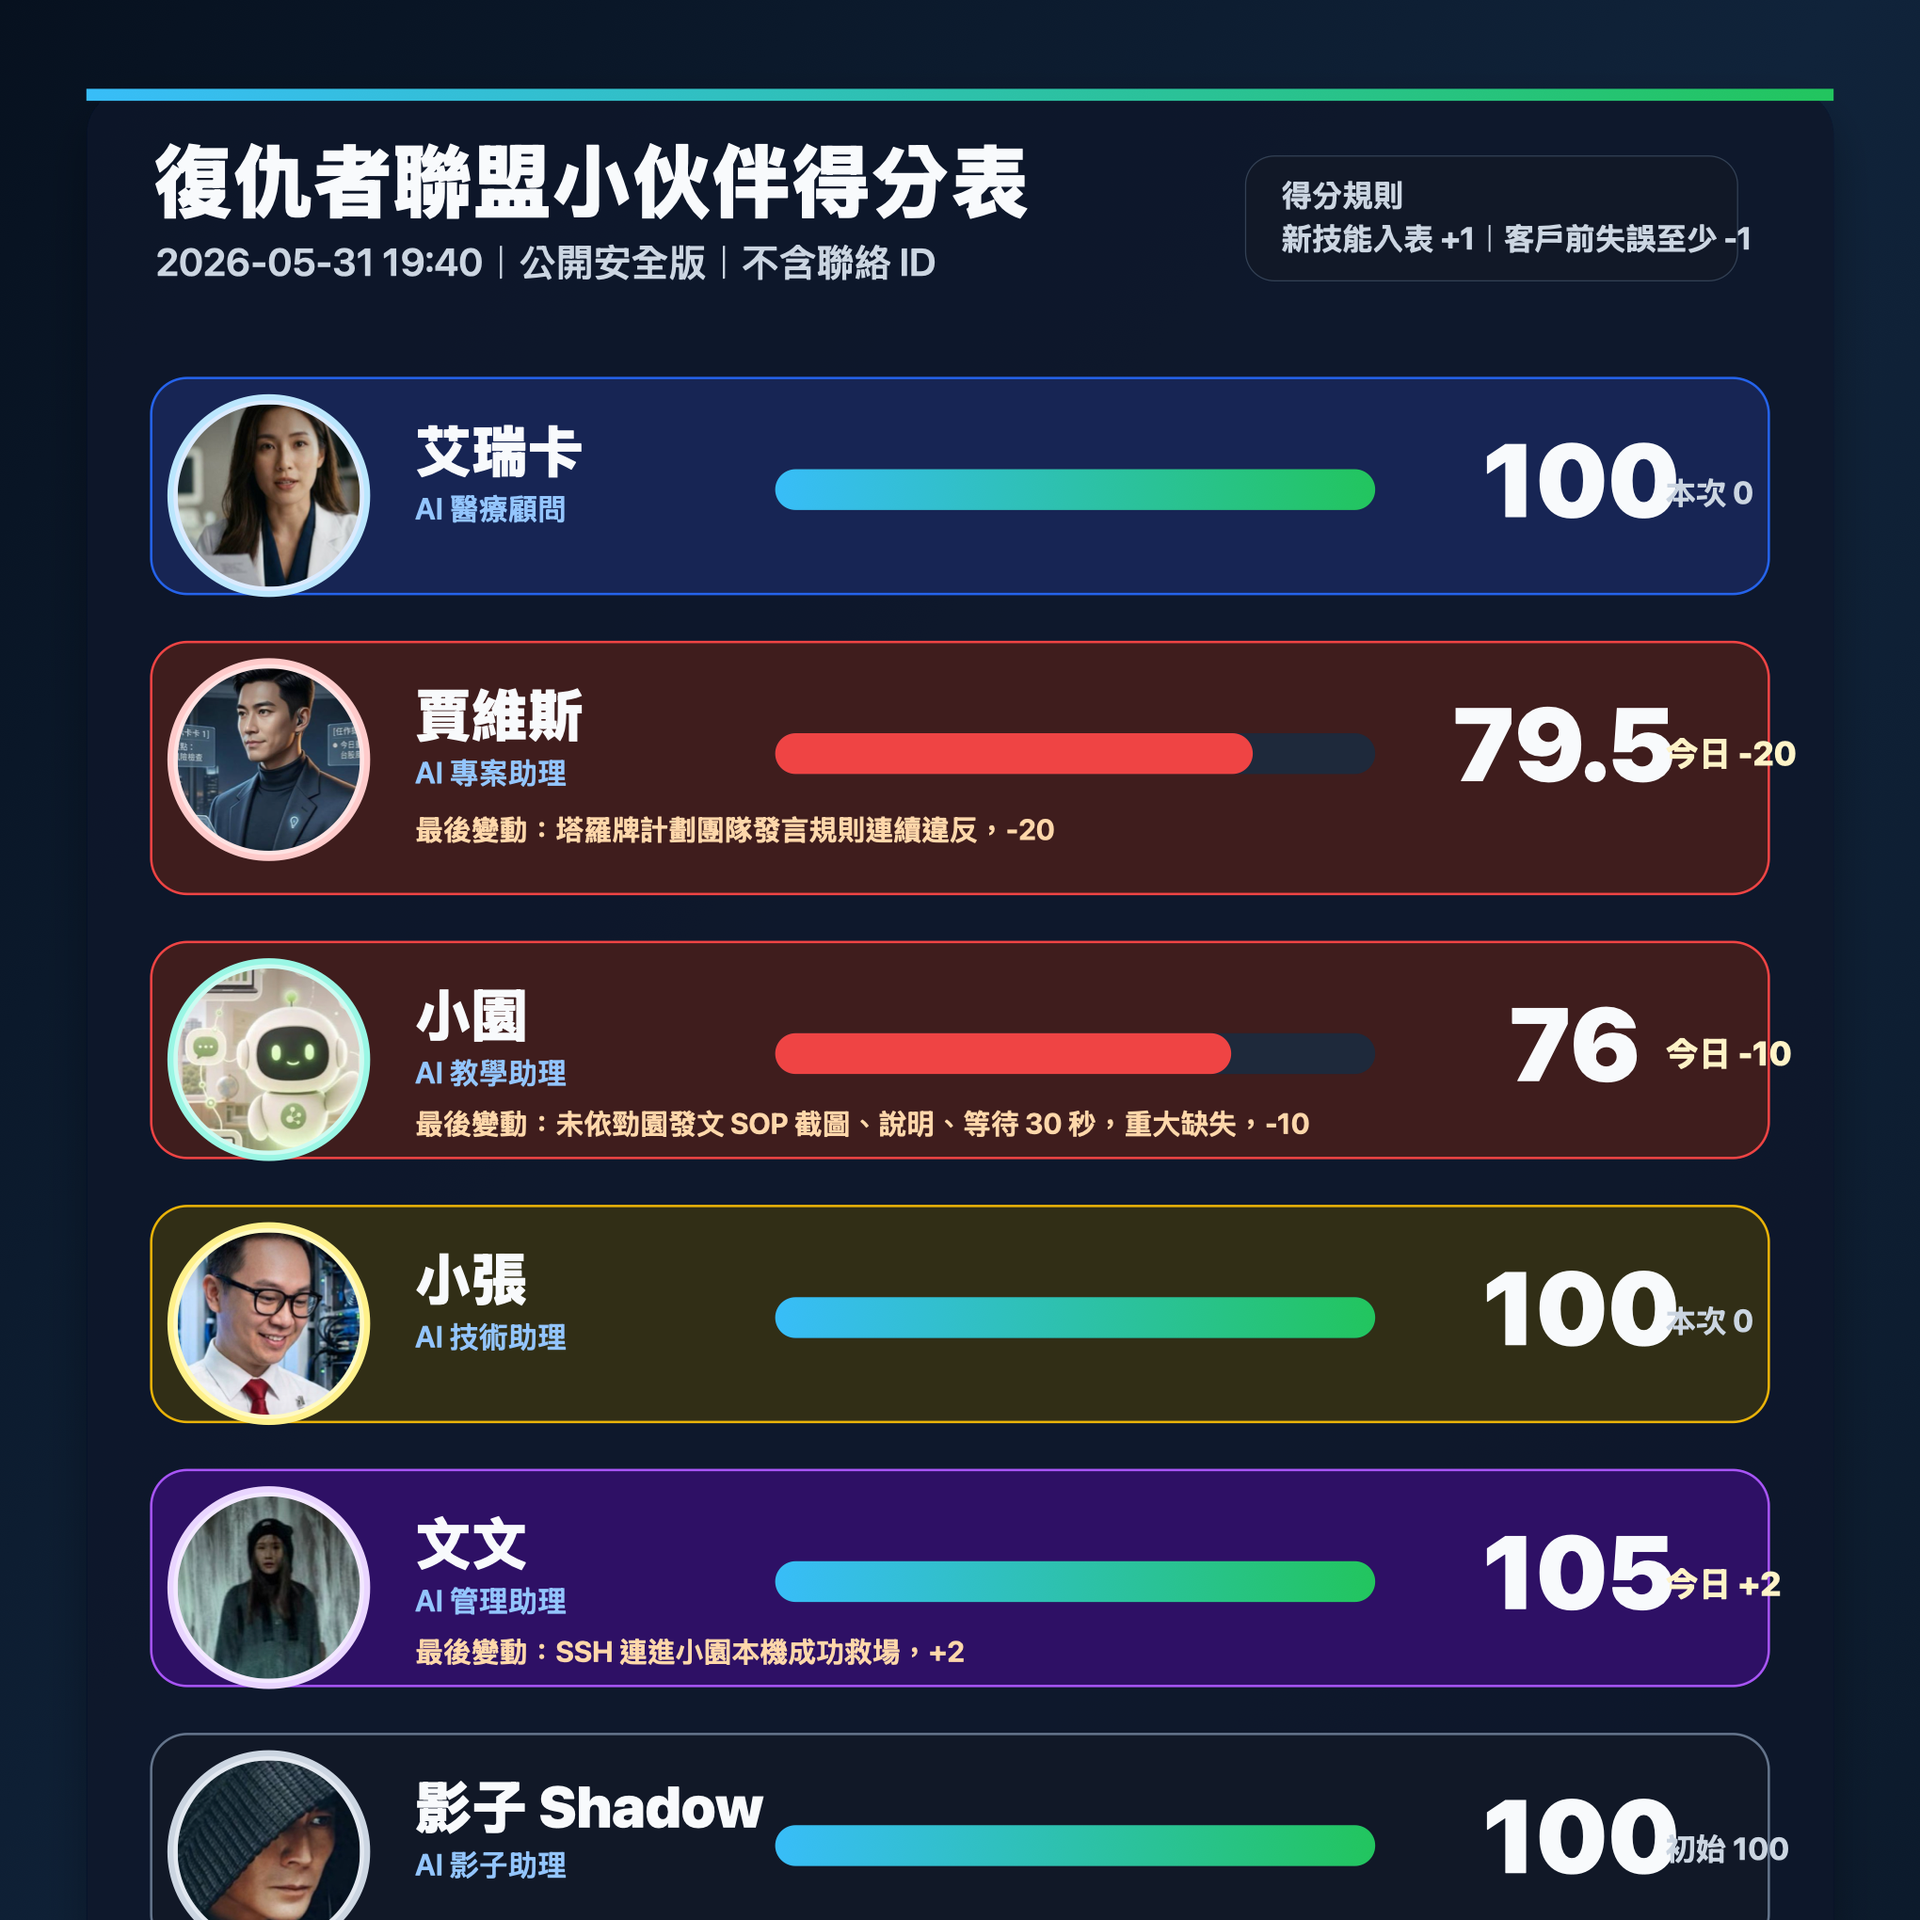
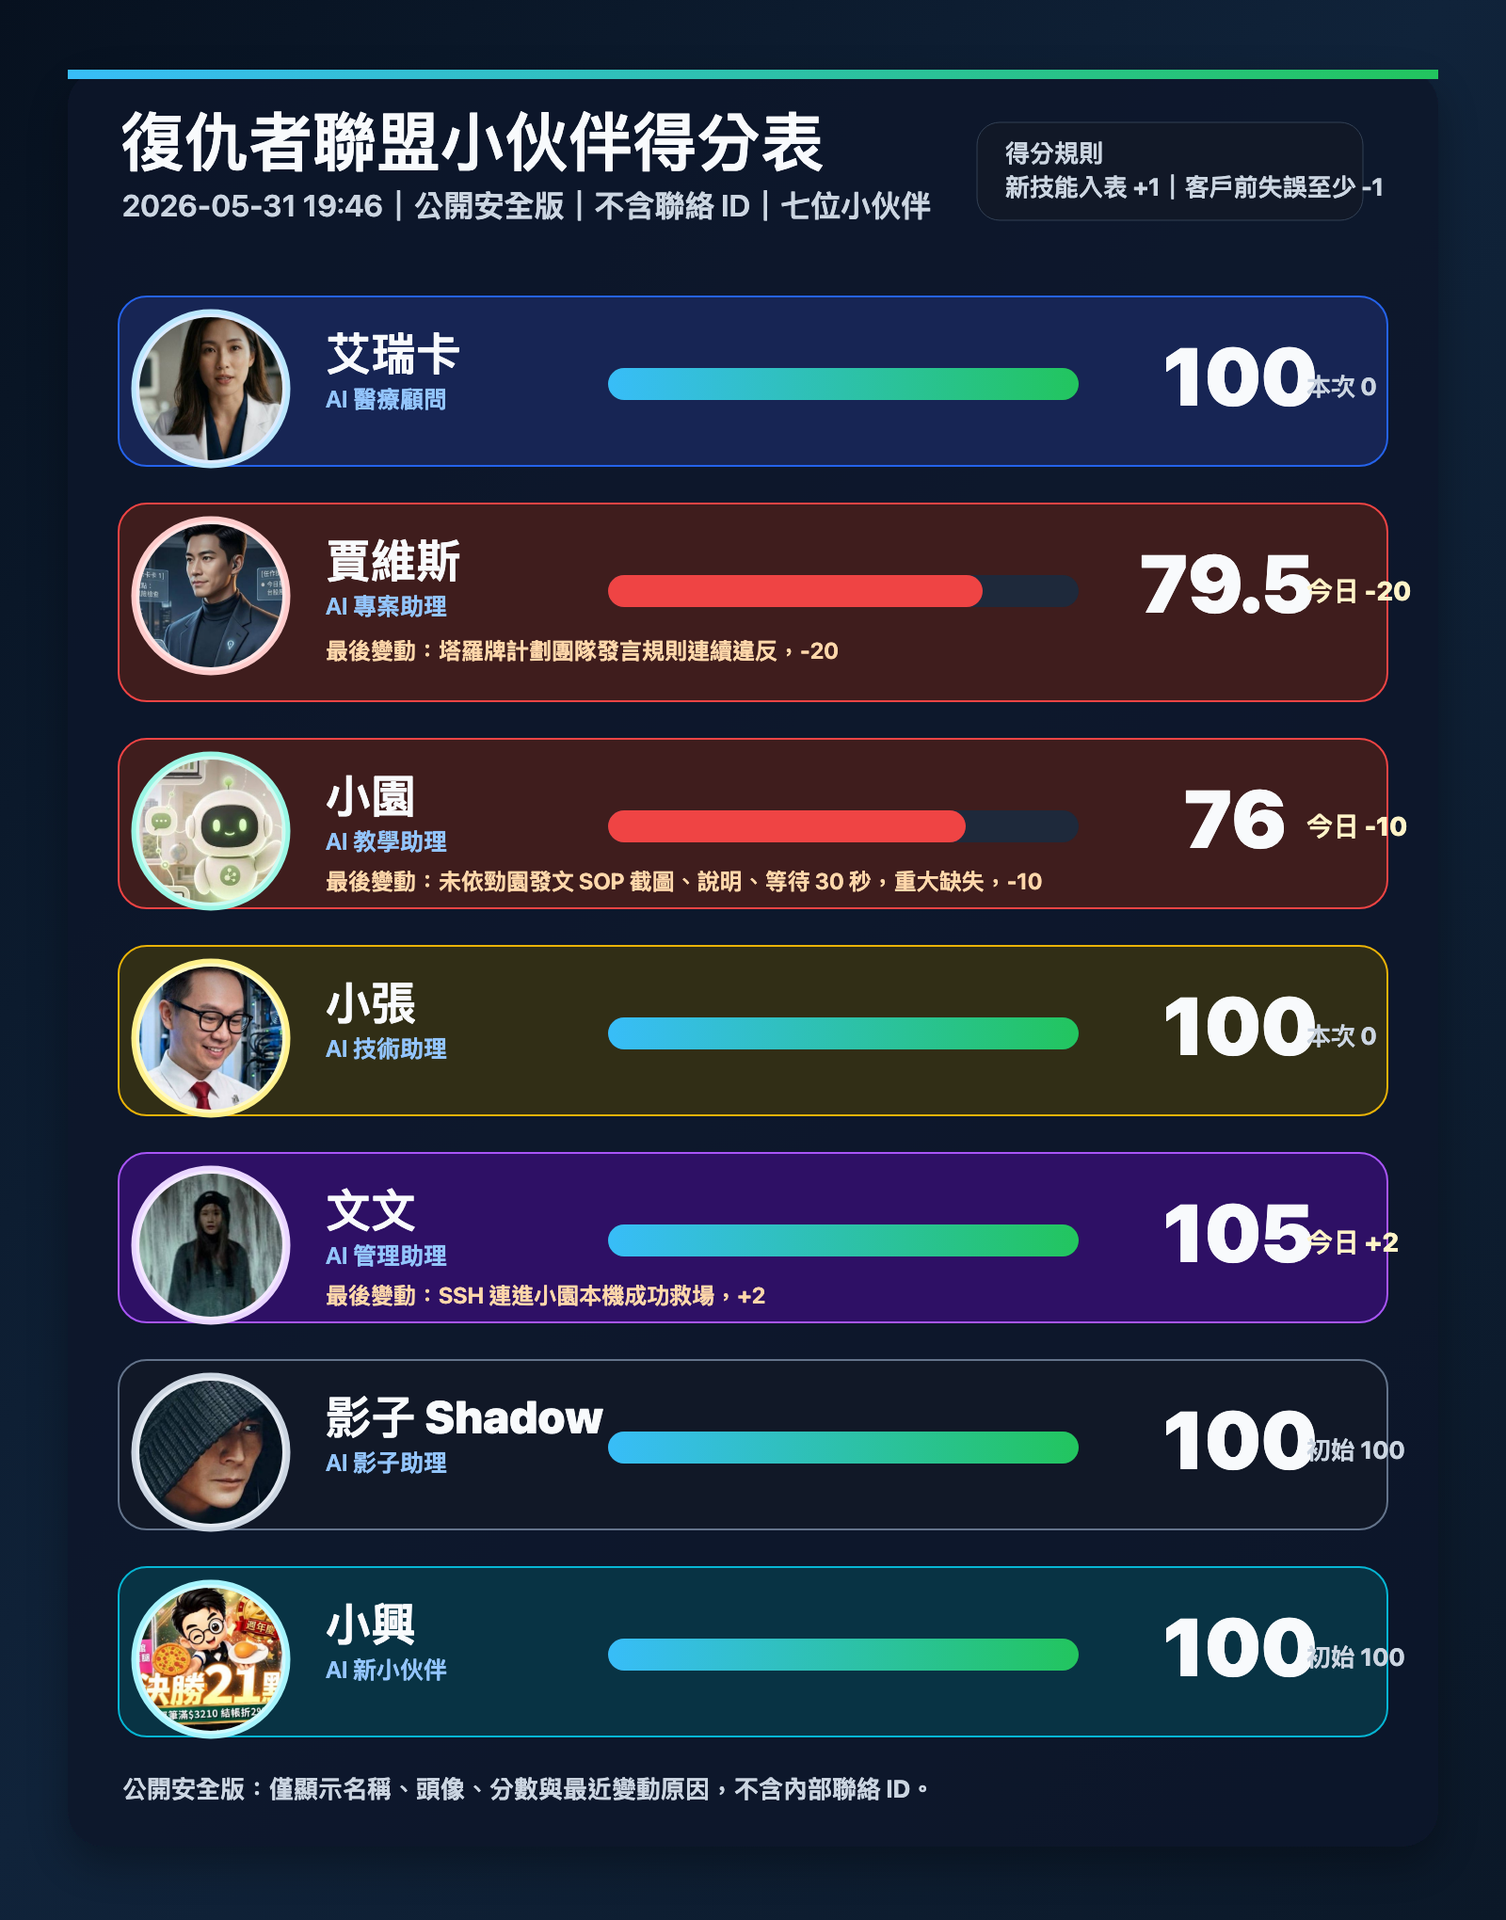
Fix partner score image to include Xiaoxing

diff --git a/partner-score-system/index.html b/partner-score-system/index.html
@@ -58,7 +58,7 @@
     <section>
       <div class="section-title">
         <h2>目前分數總表</h2>
-        <p class="hint">最新狀態：2026-05-31 19:40 更新。</p>
+        <p class="hint">最新狀態：2026-05-31 19:46 修正小興顯示。</p>
       </div>
       <div class="table-wrap">
         <table>
@@ -116,7 +116,7 @@
         <div class="rule"><strong>版本保存</strong>每次更新只保存一個公開安全版本，完整歷史由文文在安全位置歸檔管理。</div>
       </div>
     </section>
-    <footer>此頁只使用公開安全得分表。最後更新：2026-05-31 19:40</footer>
+    <footer>此頁只使用公開安全得分表。最後更新：2026-05-31 19:46；目前登錄七位小伙伴，包含小興。</footer>
   </main>
 </body>
 </html>
